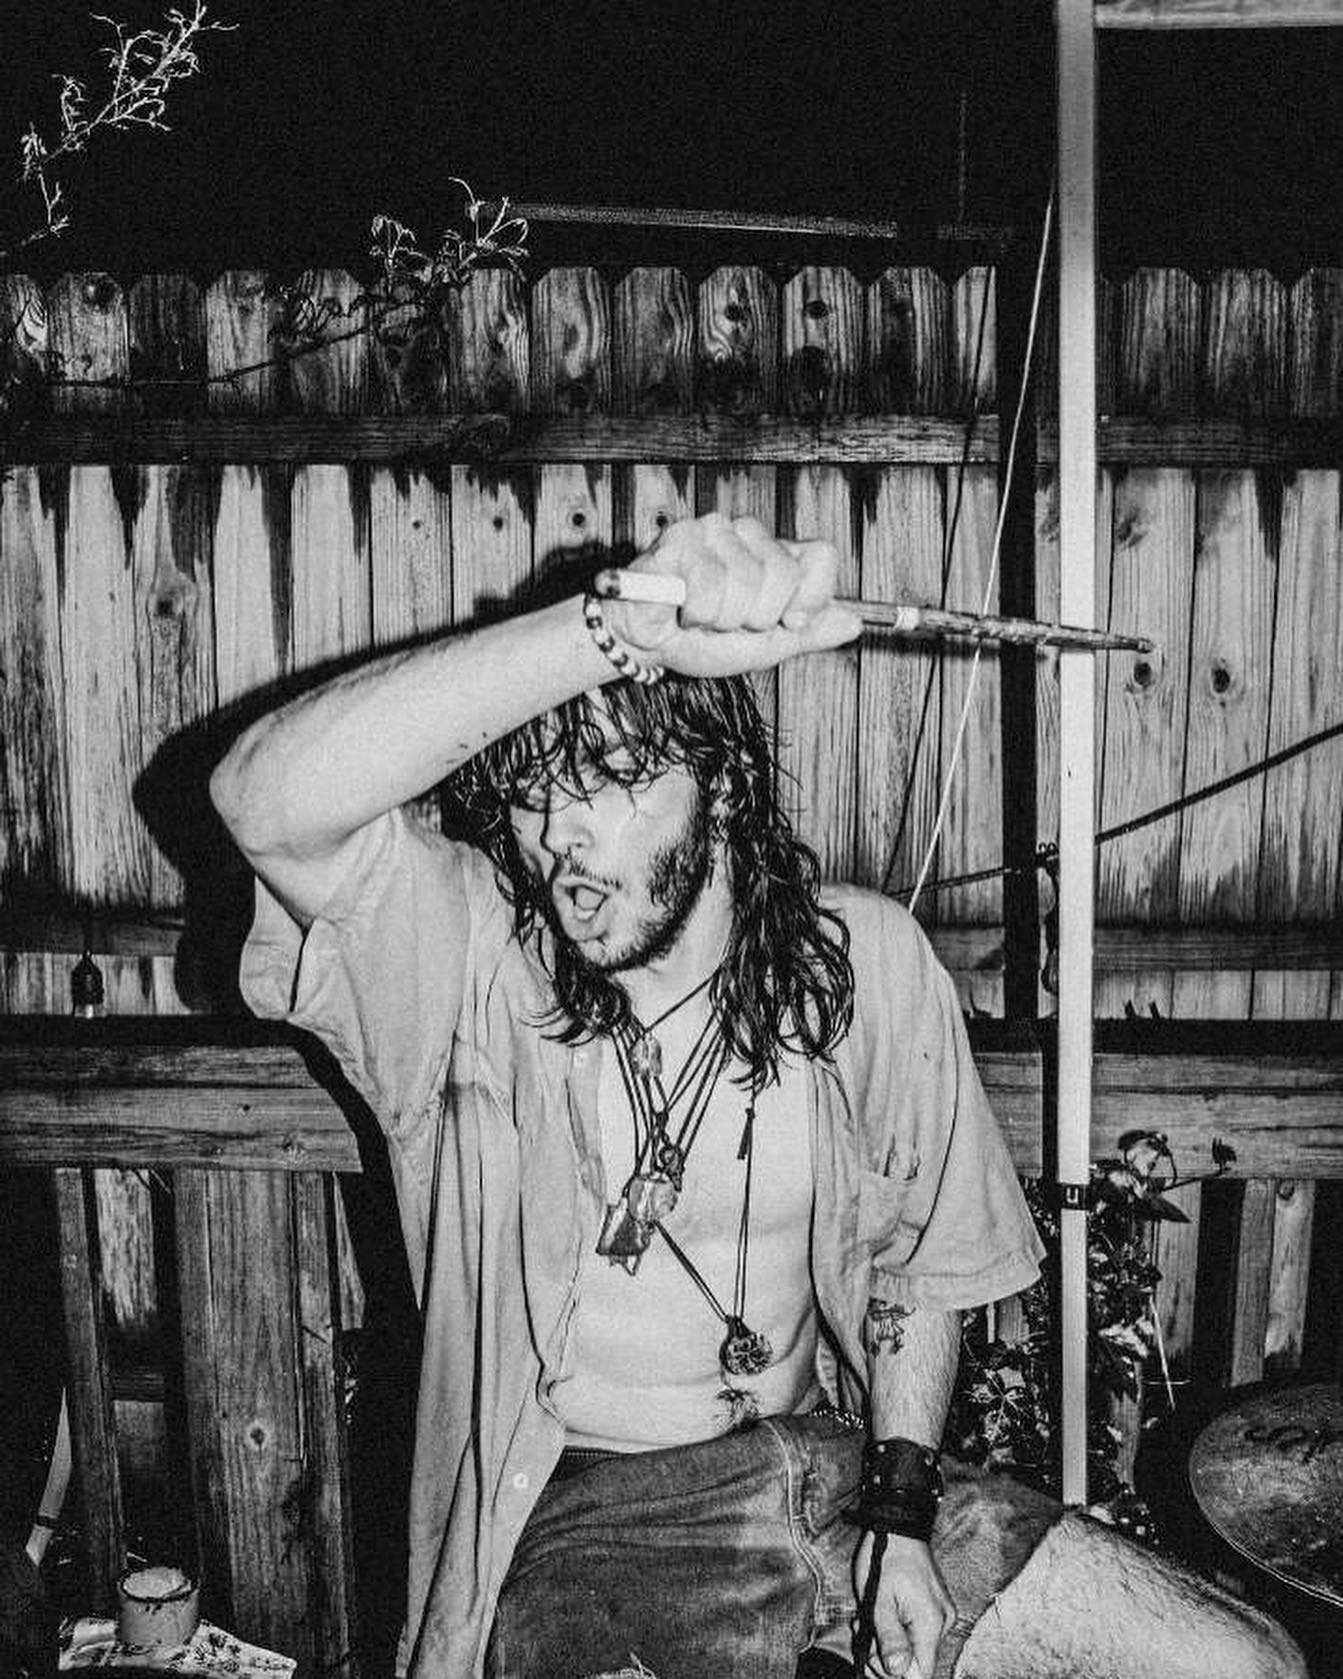
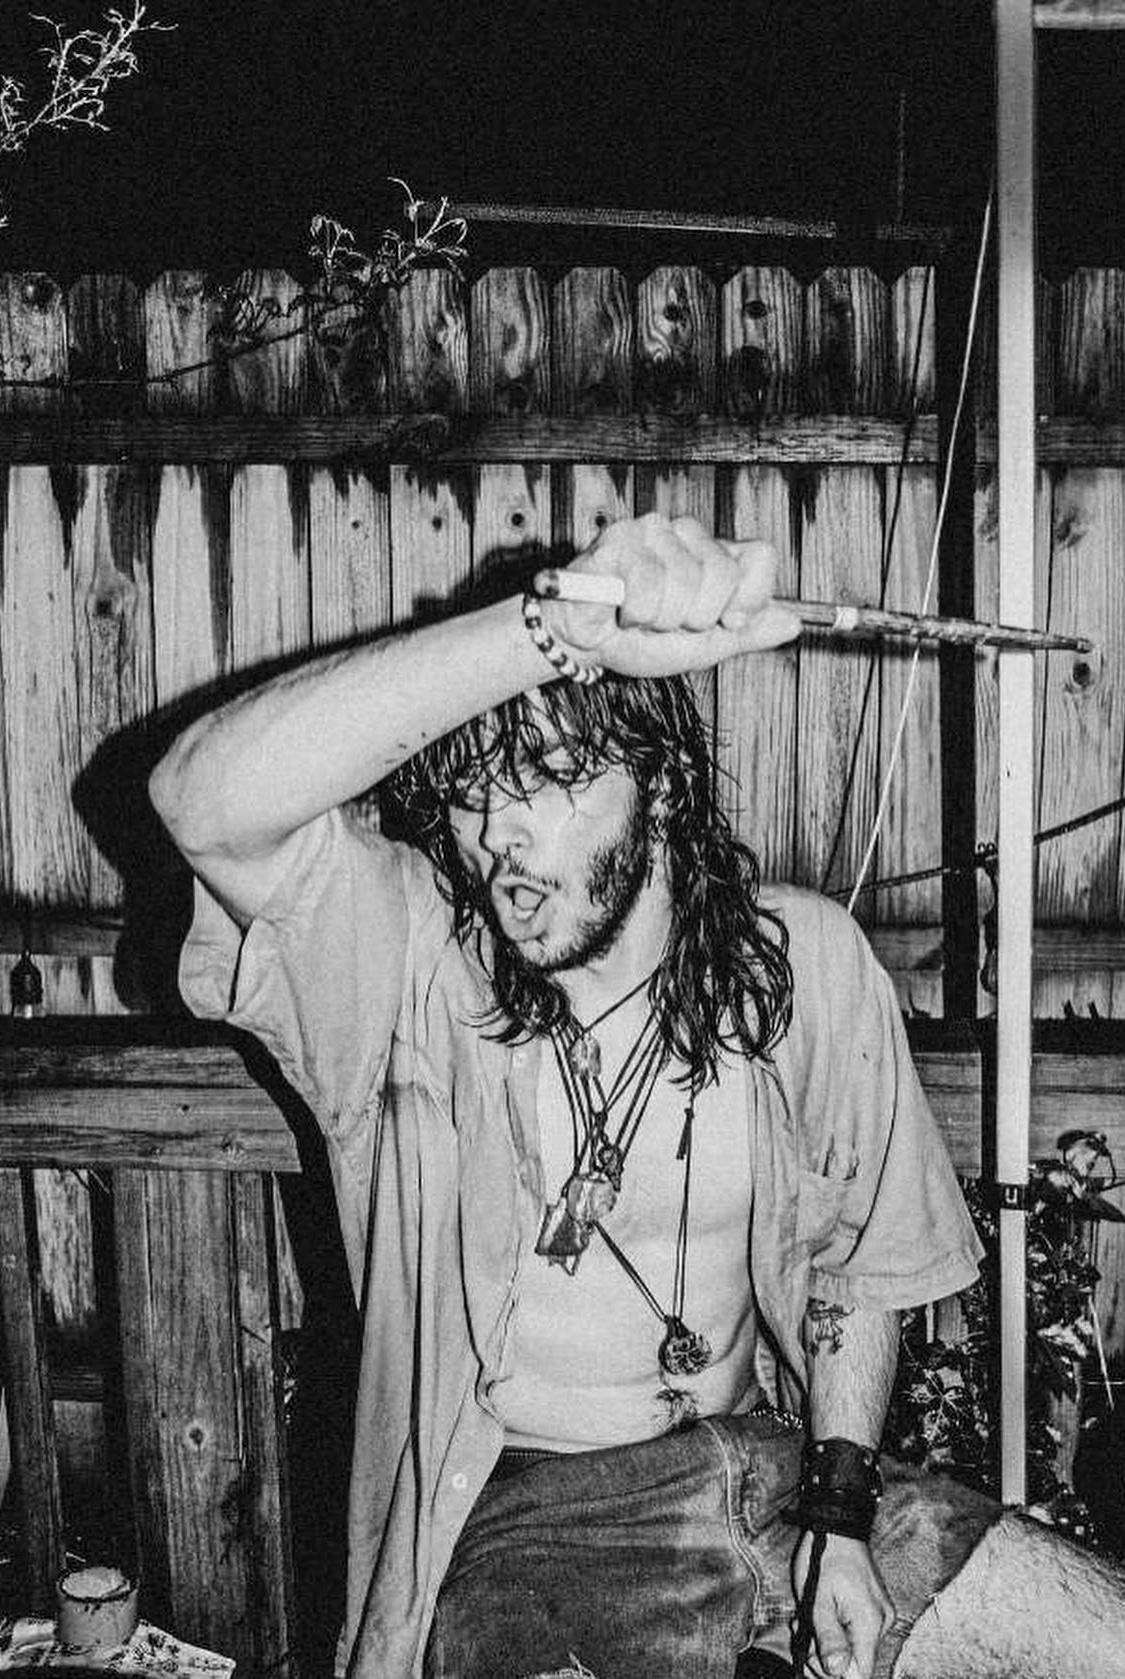
image resize, splide chevrons

diff --git a/src/app.scss b/src/app.scss
@@ -93,22 +93,6 @@ select {
 	}
 }
 
-.splide__arrow--prev {
-	left: 0;
-}
-.splide__arrow--next {
-	right: 0;
-}
-
-@media (max-width: 768) {
-	.splide__arrow--prev {
-		left: 1;
-	}
-	.splide__arrow--next {
-		right: 1;
-	}
-}
-
 .splide__pagination__page {
-	background: black !important;
+	background: white !important;
 }
